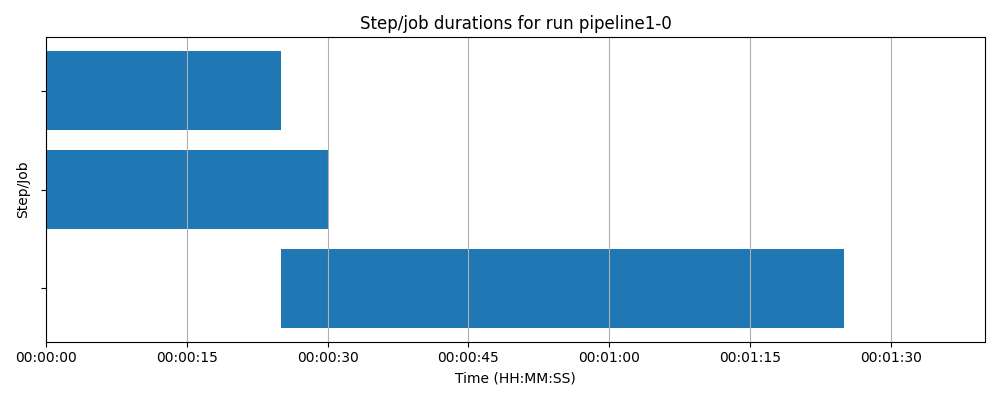
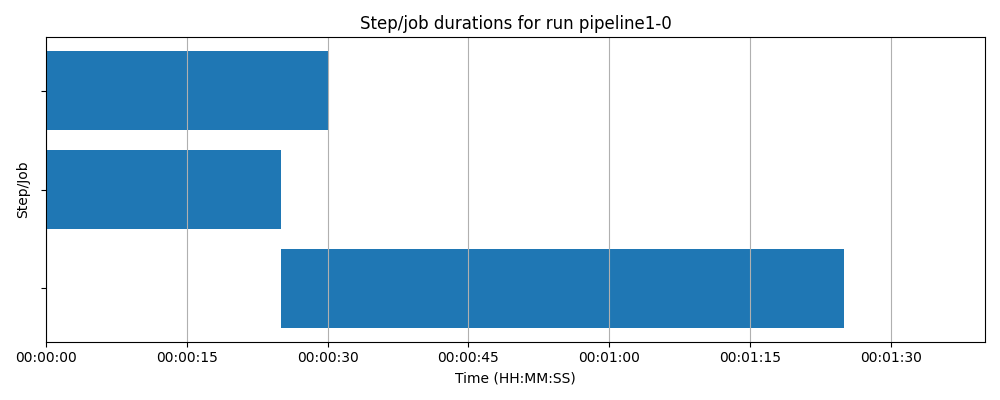
feat(simulation): fixed order of charts

Changed region(s): [[0.279, 0.36, 0.341, 0.57], [0.279, 0.12, 0.341, 0.33]]

diff --git a/experiments/commons.py b/experiments/commons.py
@@ -70,12 +70,16 @@ class JobDuration:
         self.duration = end - start
 
 
-def plot_job_gantt(jobs, title, file_path=None):
+def plot_job_gantt(jobs, title, file_path=None, sort=True):
     if not jobs:
         return
 
     # Sort jobs (latest start first)
-    steps_sorted = sorted(jobs, reverse=True, key=lambda x: x.start)
+    if sort:
+        steps_sorted = sorted(jobs, reverse=True, key=lambda x: x.start)
+    else:
+        steps_sorted = jobs.copy()
+        steps_sorted.reverse()
 
     step_names = [s.label for s in steps_sorted]
     start_times = [s.start for s in steps_sorted]

diff --git a/experiments/simulation/workflow_scheduling/simulation_gantt_charts.py b/experiments/simulation/workflow_scheduling/simulation_gantt_charts.py
@@ -27,7 +27,7 @@ def main():
                 started = datetime.fromisoformat(job.get('started_at').replace("Z", "+00:00"))
                 finished = datetime.fromisoformat(job.get('finished_at').replace("Z", "+00:00"))
                 durations.append(JobDuration(job.get('name'), started, finished))
-            plot_job_gantt(durations,f"Step/job durations for run {run_id}", directory / f"gantt_run{run_id}")
+            plot_job_gantt(durations,f"Step/job durations for run {run_id}", directory / f"gantt_run{run_id}", sort=False)
 
 
 if __name__ == "__main__":
